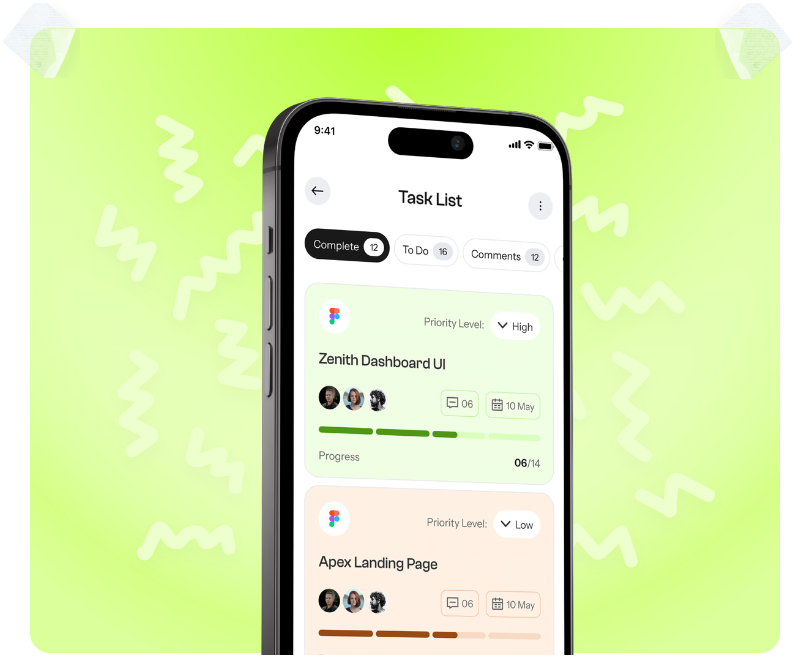
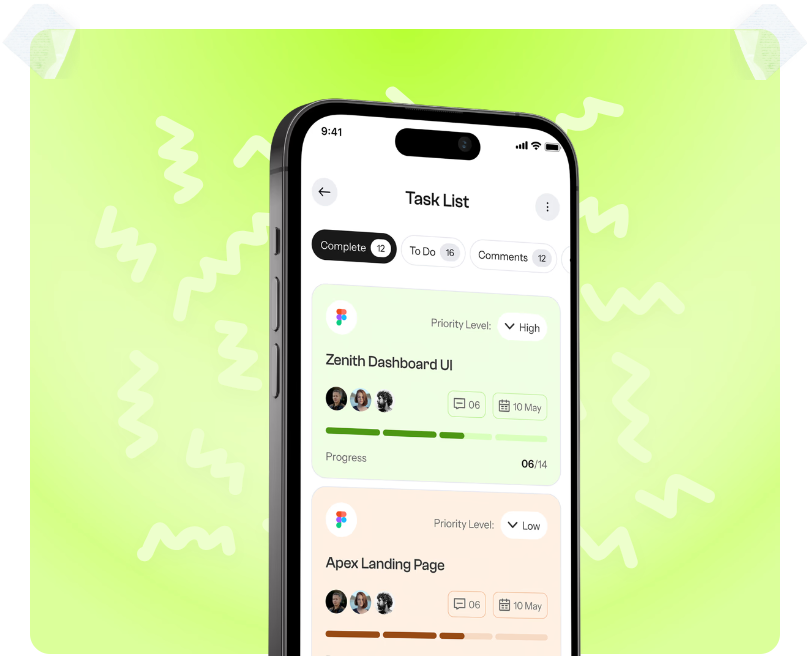
Cambiar imagen y cambiar pt en mobile

diff --git a/src/components/mobile.tsx b/src/components/mobile.tsx
@@ -100,7 +100,7 @@ export default function Mobile() {
               total desde la comodidad de tu celular.
             </p>
           </div>
-          <div className="pt-5">
+          <div className="pt-0 md:pt-5">
             <div className="inline-flex text-[#565656] text-xs md:text-sm justify-start border border-[#E6E9EE] items-center mt-3.5 rounded-full px-2 py-1.5 gap-x-2">
               <CheckIcon className="size-6 mb-0.5 rounded-full bg-gradient-to-b from-[#b7ff33] to-[#dbff99] p-1 text-black" />
               <span className="pr-2">
